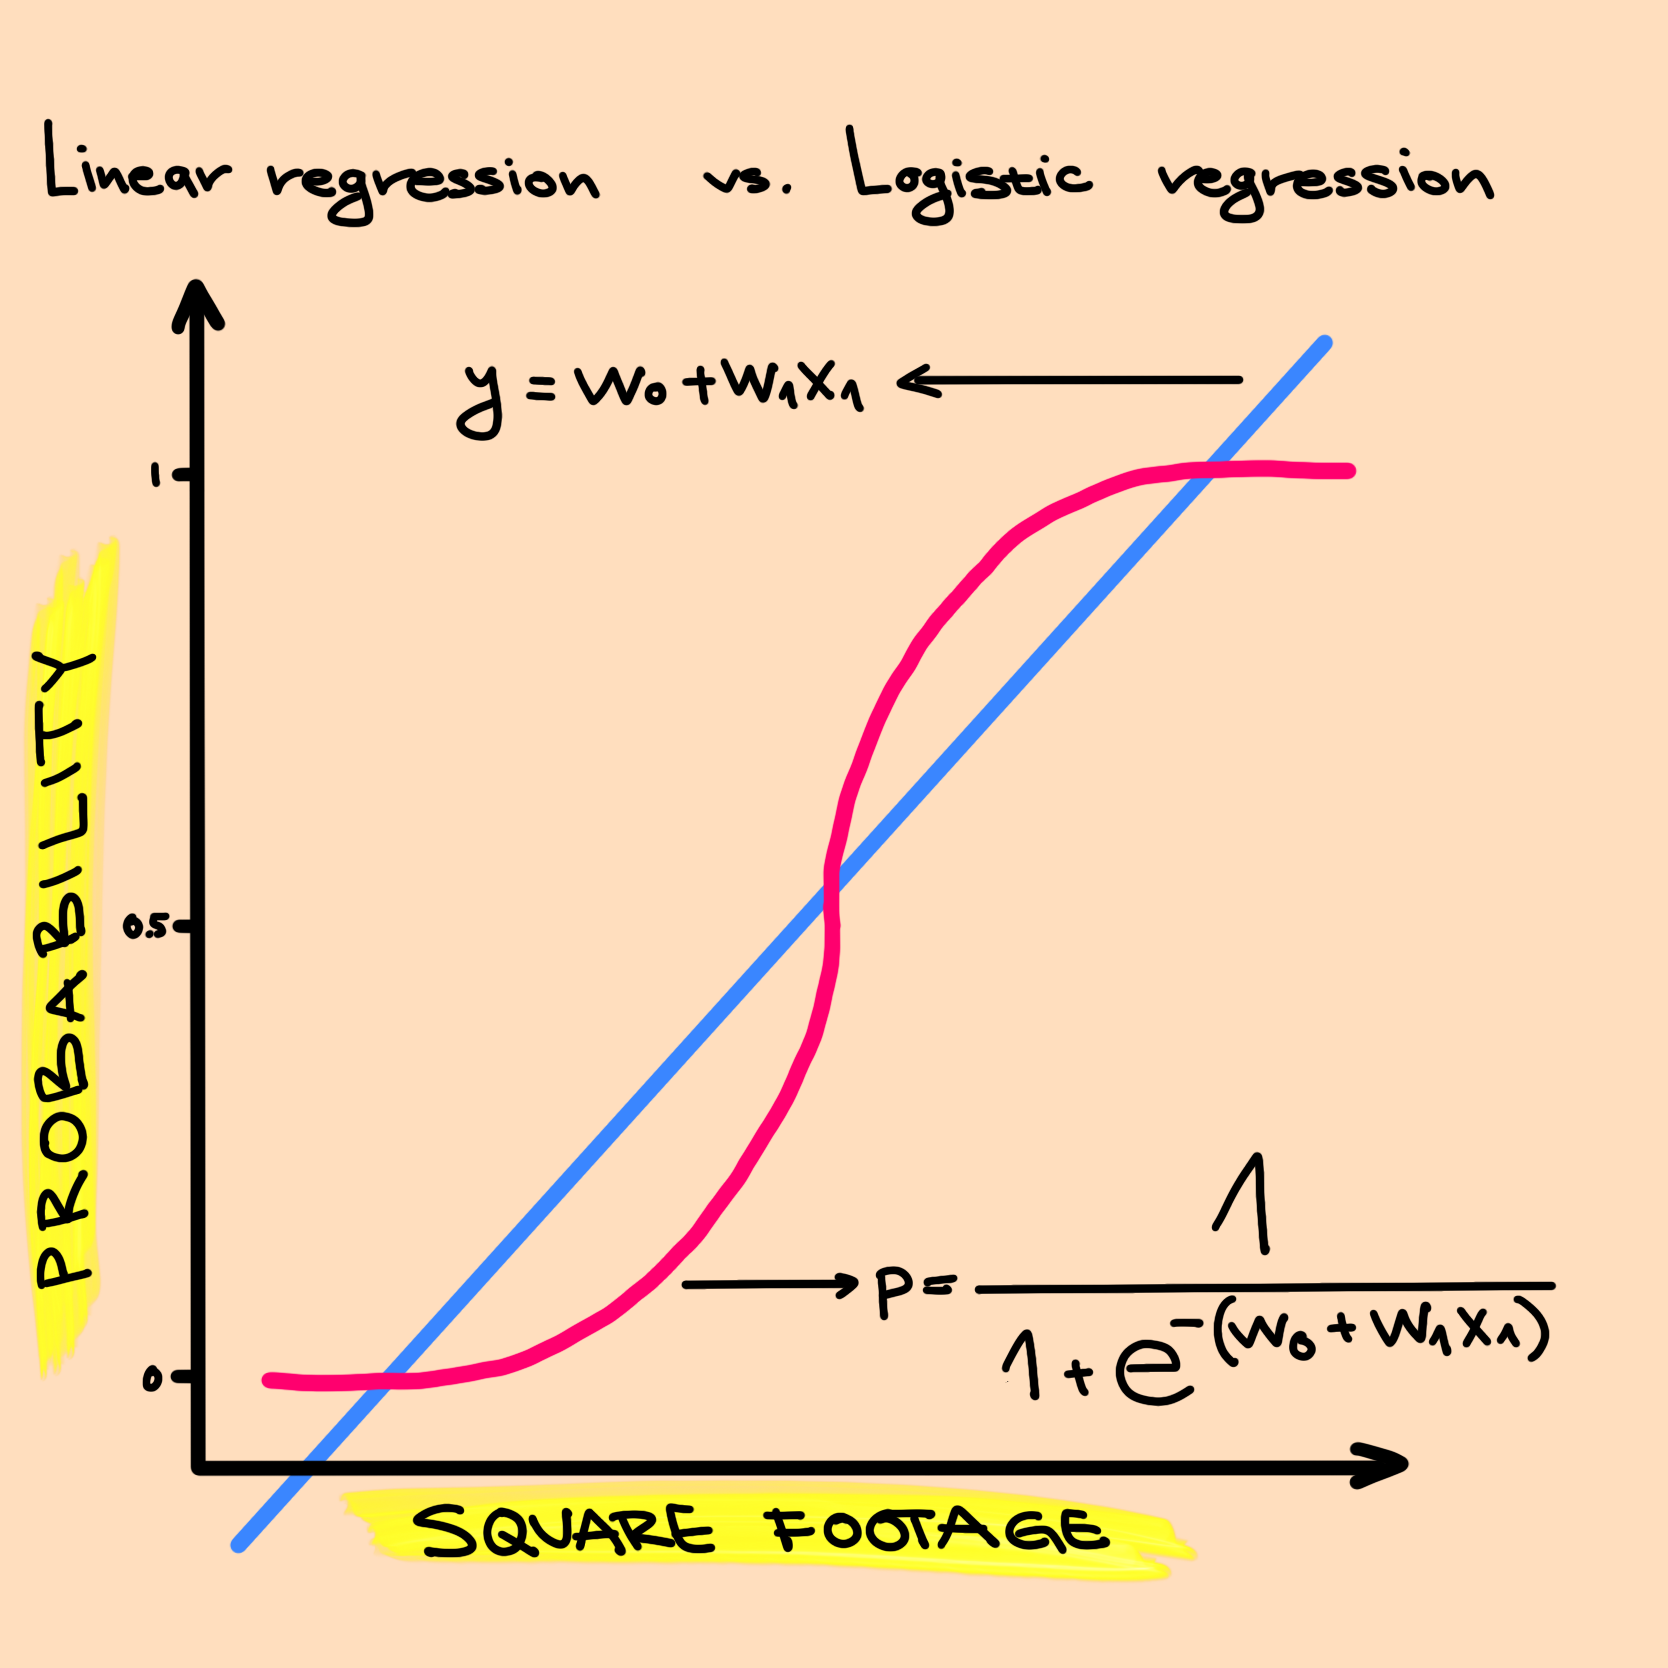
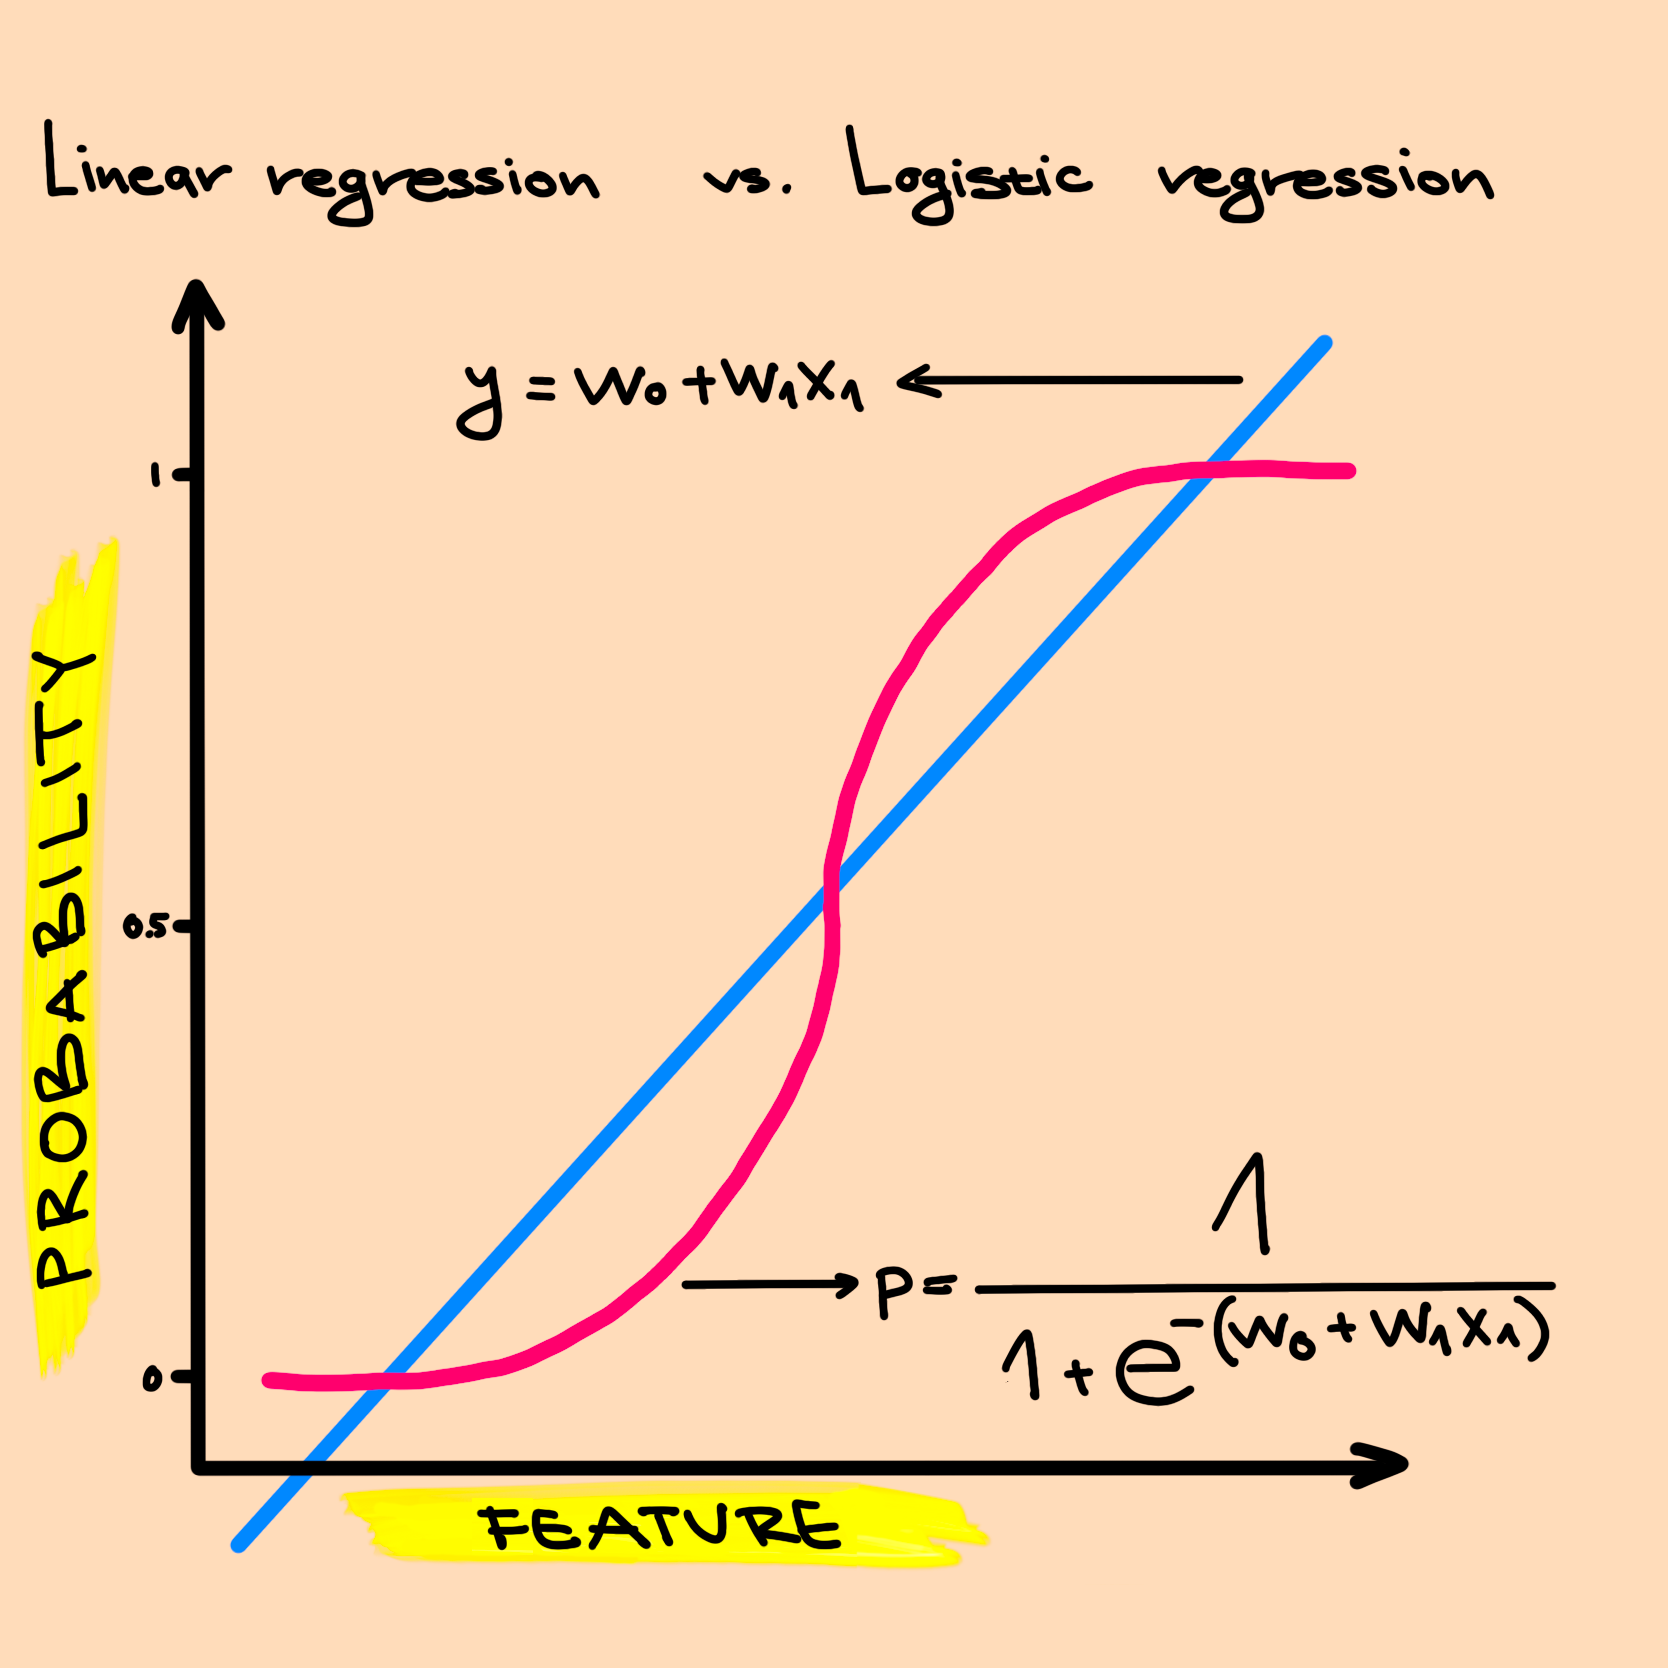
Added neural network and logit lesson, and assets for that lesson.

diff --git a/_episodes/05-logit-ann.md b/_episodes/05-logit-ann.md
@@ -1,5 +1,5 @@
 ---
-title: "Logistic Regression"
+title: "Logistic Regression, Artificial Neural Networks, and Linear Separability"
 teaching: 15
 exercises: 15
 questions:
@@ -16,11 +16,13 @@ keypoints:
 mathjax: true
 ---
 
+## Logistic Regression
+
 Logistic regression is a classifier that models the probability of a certain label.
-In our original example, when we predicted whether a price for a house is high or low, we were classifying our responses into two categories.
+In the T-cells example, we were classifying whether cells were in the two categories of active or quiescent.
 Using the logistic regression to predict one of the two labels is a binary logistic regression.
-Everything that applies to the binary classification could be applied to multi-class problems (for example, high, medium, or low).
-The focus of this workshop is on binary classification.
+Everything that applies to the binary classification could be applied to multi-class problems (for example if there was a third cell state).
+We will be focusing on the binary classification problem.
 
 #### Linear regression vs. logistic regression
 
@@ -36,10 +38,7 @@ In statistics, for the simple linear regression we write intercept term first $y
 The intercept term is a constant and it is defined as the mean of the outcome when the input is 0. 
 This interpretation gets more involved with multiple inputs, but that is out of the scope of the workshop. 
 The slope is a feature weight. 
-Think about the house price example.
-This time we want to predict the house price with one feature, for example, square footage. 
-The feature weight is the coefficient for the feature $x$ and it represents the average increase in the house price with a one unit increase in $x$. 
-Linear regression predicts the expected house price for the given feature, here the square footage.
+In the T-cells example, the feature weight is the coefficient for the feature $x$ and it represents the average increase in the confidence the cell is active with a one unit increase in $x$. 
 
 When we have multiple features, the linear regression would be $y = w_0 + w_1x_1 + w_2x_2 +...+ w_nx_n$.
 
@@ -54,7 +53,7 @@ Logistic regression returns the probability that a combination of features with 
 In the visual above that compares linear regression to logistic regression, we can see the "S" shaped function is defined by $p = \frac{1}{1+e^{-(w_0+w_1x_1)}}$. 
 The "S" shaped function is the inverse of the logistic function of __odds__. 
 It guarantees that the outcome will be between 0 and 1. 
-Recall that probability is always between 0 and 1.
+This allows us to treat the outcome as a probability, which also must be between 0 and 1. 
 
 > ## Definition
 >
@@ -63,73 +62,24 @@ Recall that probability is always between 0 and 1.
 
 $odds = \frac{P(event)}{1-P(event)}$
 
-
-In the original example, if the house price was higher than $150K, it was classified as high, otherwise it was classified as low. 
-Consider the situation where we want to predict the likelihood of a certain house price. 
-
-The goal is to predict the probability that the price is high $P(y=high\|x;w)$.
-
-From the previous visual, we saw that the sigmoid function represents the probability of a certain outcome. 
- 
-$$\begin{align}
-P(y=high|x;w) & = \frac{1}{1+e^{-(w_0+w_1x_1)}} \\ \\
-P(y=high|x;w)(1+e^{-(w_0+w_1x_1)}) & = 1 \\ \\
-P(y=high|x;w)+P(y=high|x;w)e^{-(w_0+w_1x_1)} & = 1 \\ \\
-P(y=high|x;w)e^{-(w_0+w_1x_1)} & = 1 - P(y=high|x;w) \\ \\
-e^{-(w_0+w_1x_1)} & = \frac{1-P(y=high|x;w)}{P(y=high|x;w)} \\ \\
-(e^{-(w_0+w_1x_1)})^{-1} & = (\frac{1-P(y=high|x;w)}{P(y=high|x;w)})^{-1} \\ \\
-\frac{P(y=high|x;w)}{1-P(y=high|x;w)} & = e^{w_0+w_1x_1}  \\ \\
-log(\frac{P(y=high|x;w)}{1-P(y=high|x;w)}) & = log (e^{w_0+w_1x_1}) = w_0+w_1x_1 \\
-\end{align}$$
-
-Remember, $y = w_0 + w_1x_1$
-
-Since, we are predicting the probability that the price belongs to one of the two classes, the classification is binary. 
-
-Examine the single feature, that is that square footage of a house, and how it affects the classification whether the house price is high or low. Build the visual of the house price example with one feature.
-
-<p align="center">
-<img width="500" src="https://raw.githubusercontent.com/gitter-lab/ml-bio-workshop/gh-pages/assets/logit1.jpeg">
-</p>
-
-<p align="center">
-<img width="400" src="https://raw.githubusercontent.com/gitter-lab/ml-bio-workshop/gh-pages/assets/logit3.jpeg">
-</p>
-
-
-> ## Conceptual Questions
->
-> What rule is the classifier learning?
-{: .challenge}
-
-> ## Activity
->
-> You are looking to purchase a house. How many square feet do you want?
->
-> Is the price for your house high or low based on this one feature?
-{: .challenge}
-
-
-<p align="center">
-<img width="650" src="https://raw.githubusercontent.com/gitter-lab/ml-bio-workshop/gh-pages/assets/logit2.jpeg">
-</p>
-
 Now, let's think about the T-cells example.
 If we focus only on one feature, for example cell size, we can use logistic regression to predict the probability that the cell would be active.
 
 The logistic function of odds is a sum of the __weighted features__.
-This makes the log-odds function a linear function.
-What is important to understand is that the change in one feature by a unit changes the odds ratio.
+Each feature is simply added together with a weight inside the logistic function. 
 So logistic regression treats each feature independently.
-This affects what type of rules it can learn.
+This means that, unlike decision trees, logistic regression is unable to find interactions between features.
+For instance, copy number increase of a certain gene may only affect cell state if another gene is also mutated.
+This feature independence affects what type of rules logistic regression can learn.
 
-So, an important characteristic of logistic regression features is how they affect the probability.
+> ## Questions to consider
+>
+> What could be another example of 2 features that interact with each other?
+{: .challenge}
+
+An important characteristic of features in logistic regression is how they affect the probability.
 If the feature weight is positive then the probability of the outcome increases, for example the probability that a T-cell is active increases.
 If the feature weight is negative then the probability of the outcome decreases, or in our example, the probability that a T-cell is active decreases.
-
-If we have 2 features, both cell size and cell intensity, logistic regression is learning a different rule.
-The rule is a single straight line.
-We can control slope and steepness, from class 1 and class 2.
 
 > ## Definition
 >
@@ -140,22 +90,14 @@ Recall, $y=mx+b$ graphed on the coordinate plane.
 It is a straight line. 
 $y = w_0 + w_1x_1$ is a straight line. 
 The separating function has the equation $w_0+w_1x_1= 0$.
-If $w_0+w_1x_1>0$ the house price is classified high, and if $w_0+w_1x_1<0$ the house price is classified as low. 
+If $w_0+w_1x_1>0$ the T-cell is classified as active, and if $w_0+w_1x_1<0$ the T-cell is classified as quiescent. 
 
-> ## Think-Pair-Share
+> ## Questions to consider
 >
 > Think of an example when a linear separability is not a straight line.
 >
 > When do you think something is linearly separable?
 {: .challenge}
-
-
-#### Logistic regression demo
-
-**Work in progress interactive demo**
-
-{% include logreg_demo.html %}
-
 
 ### Step 1 Select Data
 
@@ -175,13 +117,48 @@ If $w_0+w_1x_1>0$ the house price is classified high, and if $w_0+w_1x_1<0$ the 
 > For now use the default hyperparameters.
 {: .checklist}
 
-> ## Conceptual Questions
+> ## Questions to consider
 >
 > Look at the Data Plot.
 > What do you notice?
 >
 > Is the data linearly separable?  
 {: .challenge}
+
+Logistic regression can also be visualized as a network of features feeding into a single logistic function.
+Each of these 
+
+<p align="center">
+<img width="750" src="https://raw.githubusercontent.com/gitter-lab/ml-bio-workshop/gh-pages/assets/logit_nodes.png">
+</p>
+
+At the logistic function, the connected features are combined and fed into the logistic function to get the classifier's prediction.
+In this visualization, we can see that the features never interact with each other until they reach the logistic function, which results in feature independence.
+
+## Artificial Neural Networks
+
+An artificial neural network can be viewed as an extension of the logistic regression model, where additional layers of feature interactions are added.
+These additional layers allow for more complex, non-linear decision boundaries to be learned.
+
+<p align="center">
+<img width="750" src="https://raw.githubusercontent.com/gitter-lab/ml-bio-workshop/gh-pages/assets/ann_nodes.png">
+</p>
+
+Artificial neural networks have inputs and outputs, just like logistic regression, but have one or more additional layers called __hidden layers__ comprised of __hidden units__. 
+Hidden layers can contain any number of hidden units.
+In the neural network diagram, each unit in the input, output, and hidden layers resemble neurons in a human brain, hence the name neural network.
+The above figure shows a fully connected hidden layer, where every feature interacts with every other feature to form a new value. 
+The new value is created by passing the sum of the weighted feature values into the __activation function__ of the hidden layer.
+These new values are then fed to the logistic function as opposed to the raw features. 
+
+> ## Definitions
+>
+> Hidden unit - a function in a neural network which takes in values, applies some function to them, and outputs new values to be used in subsequent layer of the neural network. 
+>
+> Hidden layer - a layer of hidden units in a neural network. 
+>
+> Activation function - the function used to combine values in a specific layer of a neural network. 
+{: .callout}
 
 #### Linear vs. Nonlinear classifiers
 
@@ -191,10 +168,10 @@ If $w_0+w_1x_1>0$ the house price is classified high, and if $w_0+w_1x_1<0$ the 
 >
 > This data set is engineered specifically to demonstrate the difference between linear and nonlinear classifiers.
 >
-> Train the data set with the default hyperparameters using logistic regression classifier.
+> Train a logistic regression classifier using the default hyperparameters.
 {: .checklist}
 
-> ## Questions
+> ## Questions to consider
 >
 > What is the evaluation metrics telling?
 >
@@ -206,16 +183,18 @@ If $w_0+w_1x_1>0$ the house price is classified high, and if $w_0+w_1x_1<0$ the 
 
 > ## Software
 >
-> Train the data set with the default hyperparameters using random forests classifier.
+> Now train a neural network on the same data.
 {: .checklist}
 
-> ## Question
+> ## Questions to consider
 >
-> How did the accuracy change?
+> What shape is the decision boundary?
+>
+> How did the performance of the model change on the validation data?
 {: .challenge}
 
 This example demonstrates that logistic regression performs great with data that is linearly separable.
-However, with the nonlinear data, random forests will be the better choice for a classifier.
+However, with the nonlinear data, more complex models such as artificial neural networks need to be used.
 
 ### Step 2 Train Classifiers
 
@@ -228,6 +207,20 @@ This follows best practices in real applications.
 Smaller values of C mean stronger regularization.
 
 For those hyperparameters that we don't cover, we will use the default settings.
+
+#### Artificial neural networks in practice
+
+Artificial neural networks with a single hidden layer tend to perform well on simpler data, such as the toy datasets in this workshop. 
+
+However artificial neural networks used on more complex data, such as raw image data or protein structure data, typically have much more complex architectures. 
+
+For example, below is the architecture of a neural network used to [evaluate the skill of robotic surgery arms][https://link.springer.com/article/10.1007/s11548-018-1860-1] based on motion captured over time.
+
+<p align="center">
+<img width="750" src="https://raw.githubusercontent.com/gitter-lab/ml-bio-workshop/gh-pages/assets/example_deep_network.png">
+</p>
+
+This neural network still consists of hidden layers combined with functions, but contains many specialized layers which perform specific operations on the input features.
 
 #### Regularization
 
